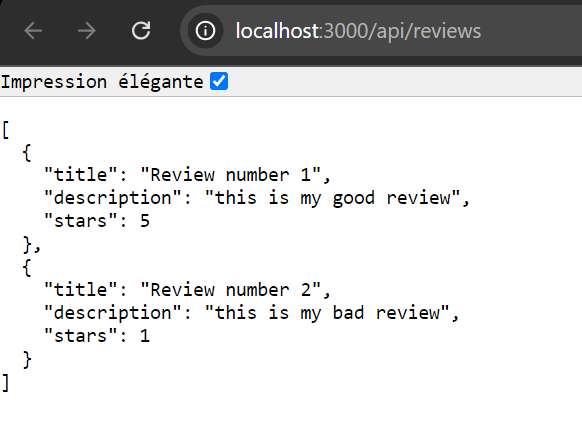
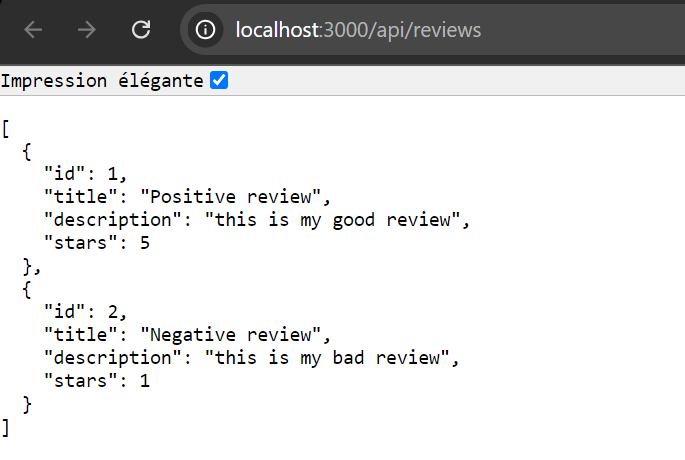
code-example update

diff --git a/src/assets/code_example.md b/src/assets/code_example.md
@@ -108,21 +108,61 @@ You can now access [http://localhost:3000/reviews/1](http://localhost:3000/revie
 
 ![Review 1](/Internet-Technologies/src/assets/images/code_example/review-1.png)
 
+### Example: Having parameters in the URL
+
+You can also pass multiple parameters through the URL.
+
+To demonstrate this, you can update the `DetailsPage` function with the following code:
+
+    ```tsx
+    "use client";
+
+    import { useSearchParams } from 'next/navigation';
+
+    export default function DetailsPage({ params }: { params: { reviewId: string } }) {
+        const searchParams = useSearchParams();
+    
+        return (
+            <div>
+                <h1>Review ID: {params.reviewId}</h1>
+                <h2>Title: {searchParams.get("title")}</h2>
+                <p>Description: {searchParams.get("description")}</p>
+                <p>Stars: {searchParams.get("stars")}</p>
+            </div>
+        );
+    }
+    ```
+
+In this example, we are using the `useSearchParams` function from Next.js, which is a **Client Component**. Since the page relies on client-side features, it's important to declare that the component will run on the client by including `"use client"` at the top of the file.
+
+The `useSearchParams` function allows you to retrieve query parameters from the URL and use them in your component.
+
+You can test this implementation by navigating to the following URL:
+
+[http://localhost:3000/reviews/1?title=Great%20Product&description=This%20product%20was%20fantastic!&stars=5](http://localhost:3000/reviews/1?title=Great%20Product&description=This%20product%20was%20fantastic!&stars=5)
+
+This will render the following:
+
+![Review Details](/Internet-Technologies/src/assets/images/code_example/review-details.png)
+
+In this example:
+- The **Review ID** is retrieved from the URL path.
+- The **Title**, **Description**, and **Stars** are extracted from the query parameters.
+
 
 
 ## Simplified API gestion
 
-Next.js allows to write fullstack applications with React. It adds tools to code API easily.
+Next.js enables you to build fullstack applications with React, providing tools to easily create APIs.
 
-### Example : Create an API for our reviews
+### Example: Create an API for Reviews
 
-1. Create a folder api inside the app folder
-   
-2. Create another folder api/reviews
-   
-3. Create a file route.tsx inside reviews
-   
-4. Add this code inside the file :
+To create an API endpoint for handling reviews, follow these steps:
+
+1. Inside the `app` folder, create a new folder named `api`.
+2. Within the `api` folder, create another folder named `reviews`.
+3. In the `reviews` folder, create a file named `route.tsx`.
+4. Add the following code to `route.tsx`:
 
     ```tsx
     import { NextResponse } from 'next/server';
@@ -130,40 +170,104 @@ Next.js allows to write fullstack applications with React. It adds tools to code
     export async function GET() {
         return NextResponse.json([
             {
-                title: "Review number 1",
-                description: "this is my good review",
+                id: 1,
+                title: "Positive review",
+                description: "This is my good review",
                 stars: 5
             },
             {
-                title: "Review number 2",
-                description: "this is my bad review",
+                id: 2,
+                title: "Negative review",
+                description: "This is my bad review",
                 stars: 1
             }
         ]);
     }
+    ```
 
-You can access the data by typing "http://localhost:3000/api/reviews" in the browser or by using postman.
+This code defines a simple `GET` endpoint that returns a list of reviews in JSON format. 
+
+You can access the reviews API by visiting the following URL in your browser or using a tool like Postman : [http://localhost:3000/api/reviews](http://localhost:3000/api/reviews) 
+
+This will display the list of reviews as shown below :
 
 ![Api for reviews](/Internet-Technologies/src/assets/images/code_example/api-reviews.png)
 
 ### Example : Access an API
 
-Now that we have an API route, we need to access it in order to show it on our website.
+Now that we have created an API route, the next step is to display the data on our website.
 
-A basic way to retrieve data with React would be to use useEffect and useState. However, we have a more efficient way to do it in Next.js. We are going to use the function useSWR.
-This function allow us to retrieve data from the Client-Side.
+A basic way to retrieve data in React would be to use `useEffect` and `useState`. However, in Next.js, we have a more efficient approach. We'll use the `fetch` function to retrieve data on the Client-Side.
 
-import useSWR from 'swr'
-export default function Home() {
-  const { data } = useSWR('/api/reviews', fetcher)
-  return <h1>{data.title}</h1>
-}
+Let's update the reviews list page to display the reviews from our API:
+
+### Steps:
+
+1. Open the `app/reviews/page.tsx` file.
+2. Replace the existing code with the following:
+
+    ```tsx
+    import Link from "next/link"
+
+    type Review = {
+      id: number;
+      title: string;
+      description: string;
+      stars: number;
+    }
+
+    export default async function Home() {
+      const data = await fetch('http://localhost:3000/api/reviews', { cache: 'no-store' })
+      const reviews: Review[] = await data.json();
+      return (
+        <ul>
+          {reviews.map((review, index) => (
+            <li key={index} style={{
+              backgroundColor: '#f9f9f9',
+              padding: '15px',
+              marginBottom: '10px',
+              borderRadius: '8px',
+              boxShadow: '0px 2px 5px rgba(0, 0, 0, 0.1)'
+            }}>
+              <strong>Title :</strong> {review.title}<br></br>
+              <strong>Description :</strong> {review.description}<br></br>
+              <strong>Stars :</strong> {review.stars}<br></br>
+              <Link href={"/reviews/" + review.id + "?title=" + review.title + "&description=" + review.description + "&stars=" + review.stars} style={{
+                color: '#0070f3',
+                textDecoration: 'underline',
+                fontWeight: 'bold',
+              }}>
+                Details of review {review.id}
+              </Link>
+            </li>
+          ))}
+        </ul>
+      )
+    }
+    ```
+We specified a no-store configuration for the cache in the `fetch` function, so the page will retrieve the data every time it is loaded.
+
+Now, you can see the list of reviews by navigating to the following address: [http://localhost:3000/reviews](http://localhost:3000/reviews).
+
+![Better reviews](/Internet-Technologies/src/assets/images/code_example/better-reviews.png)
 
 
-## Better SEO
+We used the Next.js `Link` component instead of the standard HTML `<a>` tag. This is because `Link` enhances user experience by allowing seamless client-side navigation without reloading the page. It's best practice to use the `Link` component throughout your Next.js project for internal navigation.
+
+
+
+
+
+
+## Better SEO by pre-rendering pages
 
 One of the biggest advantages of Next.js is to improve the SEO by loading pages quicker.
 This can be achieved by using two functions Next.js offers : getServerSideProps and getStaticProps.
+
+
+
+
+
 
 
 

diff --git a/src/assets/references.md b/src/assets/references.md
@@ -8,3 +8,5 @@ https://nextjstemplates.com/blog/nextjs-routing
 
 https://refine.dev/blog/next-js-api-routes/#how-to-create-api-routes-in-nextjs
 
+https://swr.vercel.app/docs/with-nextjs
+
